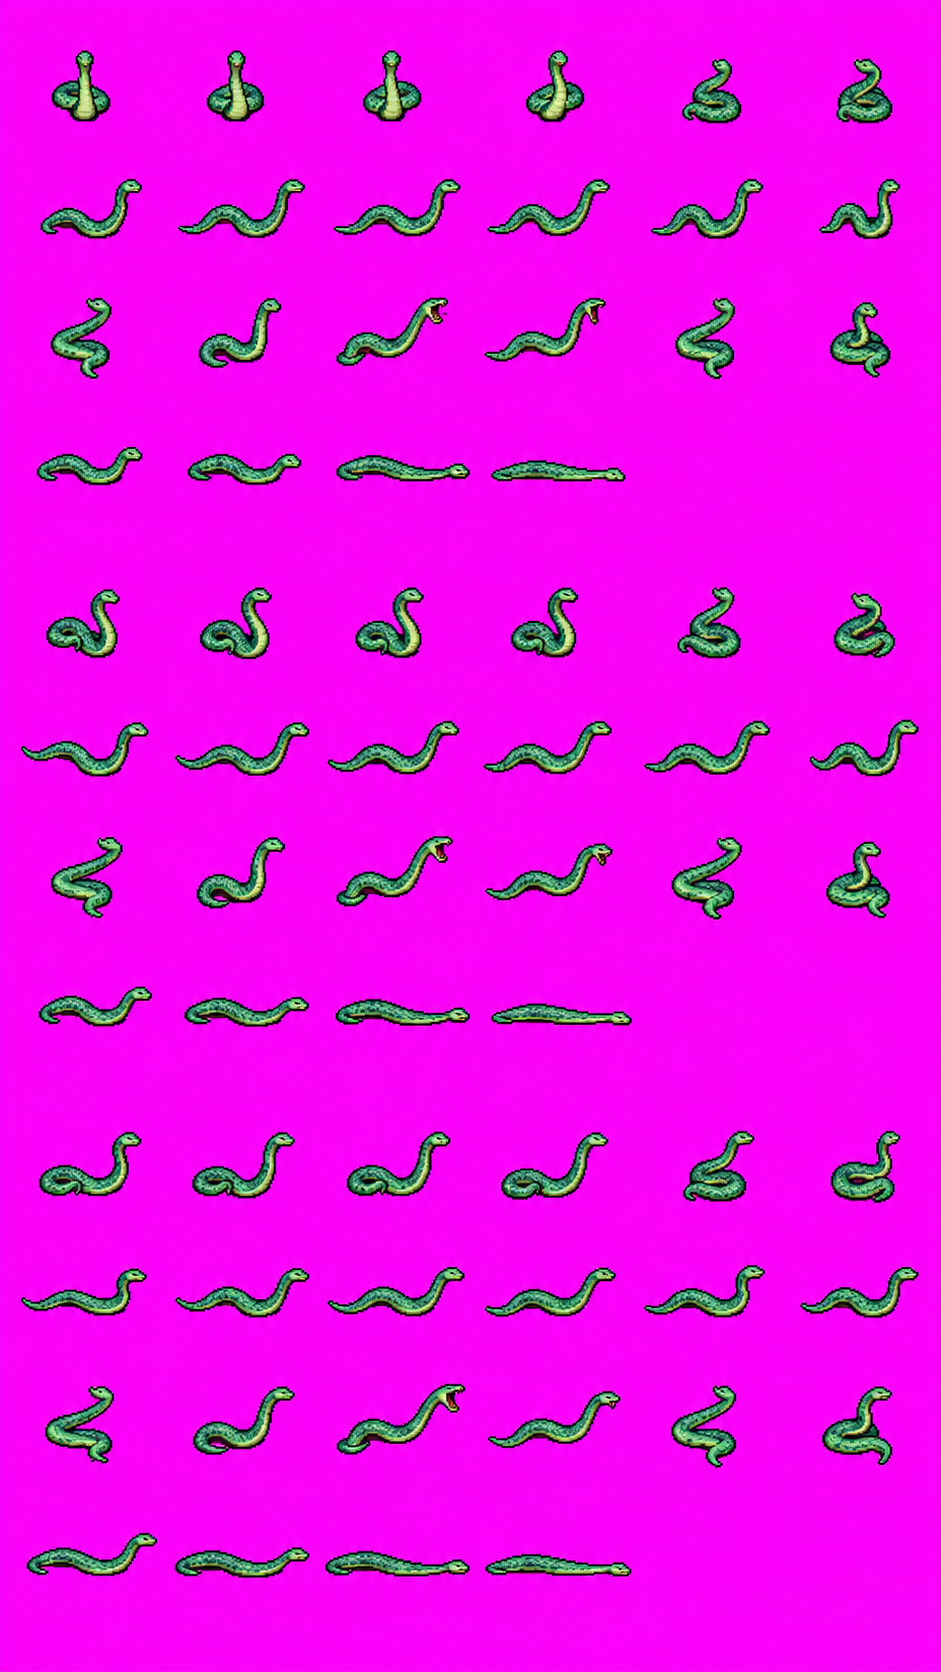
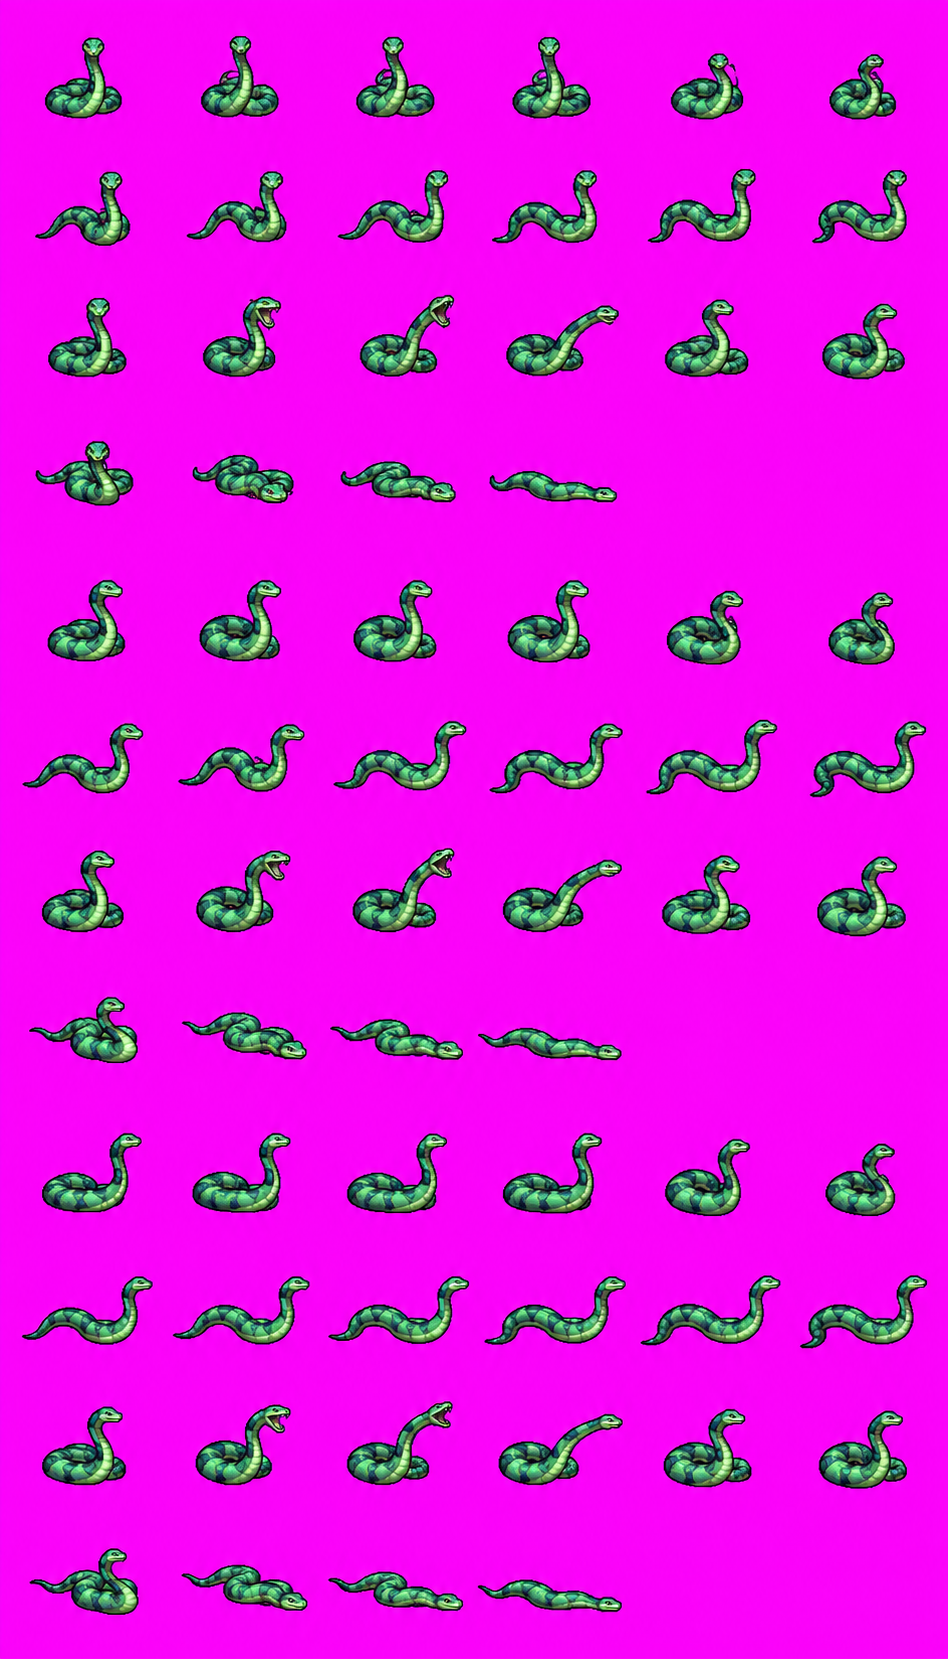
art(thanh_lan_xa): thử đủ ba lượt với bài học hướng nam (#1030)

diff --git a/art/src/beast-anim/thanh_lan_xa/NGUON.md b/art/src/beast-anim/thanh_lan_xa/NGUON.md
@@ -6,31 +6,28 @@ Loài `thanh_lan_xa` (Thanh Lân Xà), họ `snake`, khung game 64×64. Mức ki
 
 ## toA
 
[1 lines of base64/hex data omitted]
-- Công cụ: image_gen.imagegen; model: unknown; seed: unknown; số lượt: 1; phiên: soul_land_game-616; chọn toA lượt 1/1, toB lượt 1/1.
[2 lines of base64/hex data omitted]
+- Công cụ: image_gen.imagegen; model: unknown (công cụ sinh ảnh không công bố); seed: unknown (công cụ sinh ảnh không công bố); số lượt: 3; phiên: soul_land_game-630; chọn A2/3: ít cảnh báo và gần thiết kế gốc hơn A3; A1/A3 trong candidates.
[1 lines of base64/hex data omitted]
 - Ảnh gốc giữ nguyên byte; không resize / sửa pixel.
-- Mức kiểm: **nhẹ** (khối hướng: s nhẹ, se nhẹ, e nhẹ).
-- Ghi chú kỹ thuật (cỡ thân, không phải lỗi): H1–4 (s): cỡ thân idle 67% so với ảnh tĩnh (lệch 33%, quá 25%); cutter neo lại, không chặn.
-- Ghi chú kỹ thuật (cỡ thân, không phải lỗi): H5–8 (se): cỡ thân idle 82% so với ảnh tĩnh (lệch 18%); cutter neo lại, không chặn.
+- Mức kiểm: **nhẹ** (khối hướng: s nhẹ, se nhẹ, e pass).
+- Ghi chú kỹ thuật (cỡ thân, không phải lỗi): H1–4 (s): cỡ thân idle 63% so với ảnh tĩnh (lệch 37%, quá 25%); cutter neo lại, không chặn.
+- Ghi chú kỹ thuật (cỡ thân, không phải lỗi): H5–8 (se): cỡ thân idle 78% so với ảnh tĩnh (lệch 22%); cutter neo lại, không chặn.
 - Duyệt bằng mắt: 2 mục lỗi (dòng `LỖI:` bên dưới).
 
 ## toB
 
[1 lines of base64/hex data omitted]
-- Công cụ: image_gen.imagegen; model: unknown; seed: unknown; số lượt: 1; phiên: soul_land_game-616; chọn toA lượt 1/1, toB lượt 1/1.
[1 lines of base64/hex data omitted]
+- Công cụ: unknown (công cụ sinh ảnh không công bố); model: unknown (công cụ sinh ảnh không công bố); seed: unknown (công cụ sinh ảnh không công bố); số lượt: 1; phiên: soul_land_game-630; chọn A2/3: ít cảnh báo và gần thiết kế gốc hơn A3; A1/A3 trong candidates.
[1 lines of base64/hex data omitted]
 - Ảnh gốc giữ nguyên byte; không resize / sửa pixel.
 - Mức kiểm: **nhẹ** (khối hướng: ne nhẹ, n nhẹ).
-- Ghi chú kỹ thuật (cỡ thân, không phải lỗi): H1–4 (ne): cỡ thân idle 123% so với ảnh tĩnh (lệch 23%); cutter neo lại, không chặn.
-- Ghi chú kỹ thuật (cỡ thân, không phải lỗi): H5–8 (n): cỡ thân idle 128% so với ảnh tĩnh (lệch 28%, quá 25%); cutter neo lại, không chặn.
 - Duyệt bằng mắt: 1 mục lỗi (dòng `LỖI:` bên dưới).
 
 ## Lỗi
 
 ```text
-LỖI: toA — chân lệch — H3 (s) C4, H7 (se) C4, H11 (e) C4 — chân lệch > 12% chiều cao so với trung vị dải (lệch lớn nhất 15%); chân lệch > 12% chiều cao so với trung vị dải (lệch lớn nhất 17%); chân lệch > 12% chiều cao so với trung vị dải (lệch lớn nhất 15%).
-LỖI: toA — hướng — s H2–H4 — walk và attack nghiêng phải, die nằm ngang; se gần e (mắt)
+LỖI: toA — hướng — s H2–H4 — walk hơi nghiêng phải, attack quay phải, die nằm ngang; se gần e (mắt)
 LỖI: toA — pose — H1 H5 H9 C5–6 — hurt quay đầu (mắt)
 LỖI: toB — chân lệch — H3 (ne) C4, H7 (n) C4 — chân lệch > 12% chiều cao so với trung vị dải (lệch lớn nhất 14%); chân lệch > 12% chiều cao so với trung vị dải (lệch lớn nhất 14%).
 LỖI: toB — hướng — ne H1–H4, n H5–H8 — lộ mặt; attack đổi hướng, die nằm ngang; hurt quay đầu (mắt)
@@ -42,4 +39,4 @@ Bảng này `tools/assets/credits.mjs` gom vào màn Ghi công (cùng cột vớ
 
 | File | Key | Công cụ | Mô tả / prompt | Ngày | Ghi chú |
 |---|---|---|---|---|---|
-| `art/src/beast-anim/thanh_lan_xa/` | - | image_gen.imagegen | RAW hoạt ảnh Thanh Lân Xà: toA 941×1672, toB 1254×1254; model, seed, prompt thật và hash ở các mục trên | - | Soát bằng mắt trước khi duyệt |
+| `art/src/beast-anim/thanh_lan_xa/` | - | image_gen.imagegen | RAW hoạt ảnh Thanh Lân Xà: toA 948×1659, toB 1254×1254; model, seed, prompt thật và hash ở các mục trên | - | Soát bằng mắt trước khi duyệt |
